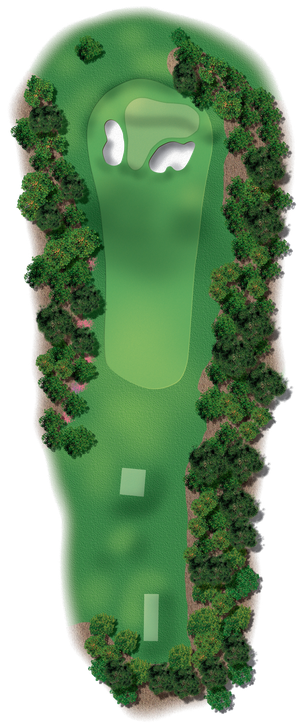
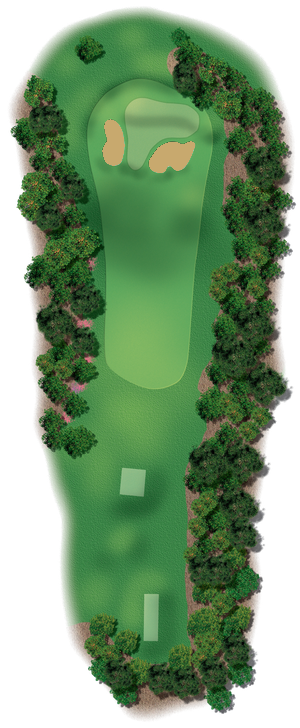
Augusta: flat sand bunkers, fill transparent dark patches
Bunker centres had transparent pixels and grey shading, which showed as dark
patches on the course. Recolour every bunker solid #c8a96e at full opacity
and bump the image cache-bust to v21.

Changed region(s): [[0.48, 0.1813, 0.66, 0.2418], [0.33, 0.1511, 0.42, 0.2418]]

diff --git a/components/FootballGolf.tsx b/components/FootballGolf.tsx
@@ -3228,7 +3228,7 @@ export default function FootballGolf(){
                   strokes={strokes}
                   useMeet={courseMode!=='real' || dailyMode}
                   imageUrl={courseMode==='real' && !dailyMode ? (
-                    selectedCourse==='augusta' ? `/holes/augusta/hole_${String(currentHole.number).padStart(2,'0')}.png?v=20` :
+                    selectedCourse==='augusta' ? `/holes/augusta/hole_${String(currentHole.number).padStart(2,'0')}.png?v=21` :
                     selectedCourse==='wii-golf' ? `/holes/wii-golf/wii-golf-${currentHole.number}.png` :
                     `/holes/hole_${String(currentHole.number).padStart(2,'0')}.png`
                   ) : undefined}
@@ -3464,7 +3464,7 @@ export default function FootballGolf(){
                     isAnimating={isAnimating}
                     strokes={strokes}
                     maxRangePos={!pastPin && club==='driver' && remaining > clubMax && !(selectedCourse==='wii-golf' && currentHole && WII_GOLF_BRANCHES[currentHole.number]) ? ballPos + clubMax : undefined}
-                    imageUrl={isReal ? (selectedCourse==='augusta' ? `/holes/augusta/hole_${String(currentHole.number).padStart(2,'0')}.png?v=20` : selectedCourse==='wii-golf' ? `/holes/wii-golf/wii-golf-${currentHole.number}.png` : `/holes/hole_${String(currentHole.number).padStart(2,'0')}.png`) : undefined}
+                    imageUrl={isReal ? (selectedCourse==='augusta' ? `/holes/augusta/hole_${String(currentHole.number).padStart(2,'0')}.png?v=21` : selectedCourse==='wii-golf' ? `/holes/wii-golf/wii-golf-${currentHole.number}.png` : `/holes/hole_${String(currentHole.number).padStart(2,'0')}.png`) : undefined}
                     imageRotation={isReal ? (PEBBLE_PHOTO_ROTATIONS[currentHole.number] ?? 0) : undefined}
                     realYScale={cvYScale}
                     realTeePos={isReal ? fracToSVG((selectedCourse==='augusta'?AUGUSTA_POSITIONS:selectedCourse==='wii-golf'?wiiActiveLookup:HOLE_POSITIONS)[currentHole.number].teeFrac, cvYScale!) : undefined}

diff --git a/scripts/recolor-augusta-bunkers.py b/scripts/recolor-augusta-bunkers.py
@@ -1,119 +1,57 @@
 """
-Augusta bunker flat-fill — compact-component filter + strict alpha.
+Augusta bunkers -> flat sand (#c8a96e).
 
-Problems with previous versions:
-  - Semi-transparent edge pixels (alpha 10-200) formed large "components" at the
-    boundary of the hole shape → fixed by requiring alpha > 200 for seeds.
-  - Elongated right-side boundary strips (e.g. hole_01 comp=166, compactness=0.06)
-    were ≥500px but are not bunkers → filtered by requiring compactness ≥ 0.2.
-  - Dark green pixels inside the dilation zone were colored because is_fairway
-    only excluded bright green (g>130) → fixed by excluding any green-dominant
-    pixel (g > r+10 AND g > b+10) from the final fill.
+The hole art has grey/white bunkers with dark shading, and some bunker centres are
+transparent (the page background shows through as dark patches). This:
+  1. finds the course shape (filling transparent gaps) and stays 14px inside its edge,
+  2. seeds on the light-grey bunker lip, grows through connected grey shading + gaps,
+  3. paints the result flat sand at full opacity.
 
-Algorithm:
-  1. v12 seed: lum>80, sat<40, not green-dominant, not blue, alpha>200.
-  2. 20px dilation + shadow to form v12_mask.
-  3. Label components; keep those ≥500px AND compactness ≥ 0.2 (area/bbox_area).
-  4. Dilate kept components by BRIDGE_PX to bridge thin green separator lines.
-  5. Within dilated zone, fill pixels that are not green-dominant and not blue.
-
-Sources: /tmp/augusta_orig (6148b9f)
-Output:  public/holes/augusta/
+Usage: python3 scripts/recolor-augusta-bunkers.py [src_dir] [dst_dir]
+       (defaults to public/holes/augusta in place; safe to re-run)
 """
-
 import os
+import sys
+
 import numpy as np
-from PIL import Image, ImageFilter
-from scipy.ndimage import label
+from PIL import Image
+from scipy.ndimage import binary_dilation, binary_erosion, binary_fill_holes, label
 
-ORIG_DIR  = '/tmp/augusta_orig'
-OUT_DIR   = os.path.join(os.path.dirname(__file__), '..', 'public', 'holes', 'augusta')
+SAND = np.array([200, 169, 110])  # #c8a96e
+DEFAULT = os.path.join(os.path.dirname(__file__), '..', 'public', 'holes', 'augusta')
+src = sys.argv[1] if len(sys.argv) > 1 else DEFAULT
+dst = sys.argv[2] if len(sys.argv) > 2 else src
 
-FLAT_R, FLAT_G, FLAT_B = 200, 169, 110   # #c8a96e
-MIN_COMPONENT   = 500    # px — minimum blob size
-MIN_COMPACTNESS = 0.25   # area / bounding_box_area — filters elongated boundary strips
-BRIDGE_PX       = 8      # px dilation to bridge thin green separator lines
+for f in sorted(os.listdir(src)):
+    if not f.endswith('.png'):
+        continue
+    a = np.array(Image.open(os.path.join(src, f)).convert('RGBA')).astype(int)
+    r, g, b, al = a[..., 0], a[..., 1], a[..., 2], a[..., 3]
+    mx = a[..., :3].max(-1)
+    mn = a[..., :3].min(-1)
+    lum = (mx + mn) / 2
+    glead = g - np.maximum(r, b)
 
+    course = binary_fill_holes(al > 200)
+    interior = binary_erosion(course, iterations=14)            # stay off the feathered course edge
+    holes = course & (al <= 200)                                 # transparent gaps inside the course
+    grey = (mx - mn < 45) & (glead < 15) & (r - b < 25)          # grey/blue-grey, not green or brown straw
+    greyish = interior & (grey | holes)
+    lip = greyish & (lum > 120) & (mx - mn < 20)                 # light-grey bunker lip
 
-def recolor_hole(src_path, out_path):
-    img  = Image.open(src_path).convert('RGBA')
-    data = np.array(img, dtype=np.float32)
-    r, g, b, a = data[:,:,0], data[:,:,1], data[:,:,2], data[:,:,3]
+    lab, n = label(lip)
+    sizes = np.bincount(lab.ravel())
+    m = np.isin(lab, [i for i in range(1, n + 1) if sizes[i] >= 25])
+    for _ in range(25):                                          # grow through connected shading
+        nm = binary_dilation(m) & greyish
+        if (nm == m).all():
+            break
+        m = nm
+    m = binary_fill_holes(m) & interior
+    m |= binary_dilation(m, iterations=2) & interior & ((glead < 30) | holes)  # antialiased rim
 
-    maxc = np.maximum(np.maximum(r, g), b)
-    minc = np.minimum(np.minimum(r, g), b)
-    lv   = (maxc + minc) / 2.0 / 255.0
-    lum  = lv * 255.0
-    diff = maxc - minc
-    s    = np.where(diff == 0, 0.0,
-               np.where(lv > 0.5,
-                   diff / (510.0 - maxc - minc),
-                   diff / (maxc + minc)))
-    sat = s * 100.0
-
-    # Keep a>10 for connectivity; edge artifacts are filtered by compactness below
-    inside = a > 10
-    # Green-dominant: any pixel where G clearly leads both R and B
-    is_green = (g > r + 10) & (g > b + 10)
-    is_blue  = (b > r + 20) & (b > g + 10)
-
-    # ── v12 mask ───────────────────────────────────────────────────────────────
-    seed = (
-        (lum > 80) & (sat < 40) &
-        (g < r + 25) & (b > g - 35) &
-        inside & ~is_green & ~is_blue
-    )
-    seed_img = Image.fromarray((seed * 255).astype(np.uint8))
-    zone     = np.array(seed_img.filter(ImageFilter.MaxFilter(41))) > 0
-    shadow   = zone & inside & (lum >= 5) & (lum <= 70) & (sat < 40) & ~is_green & ~is_blue
-    v12_mask = (seed | shadow).astype(bool)
-
-    # ── Keep large, compact components (real bunker bodies) ───────────────────
-    labeled, _ = label(v12_mask)
-    sizes = np.bincount(labeled.ravel())
-
-    good_ids = []
-    for cid in np.where(sizes >= MIN_COMPONENT)[0]:
-        if cid == 0:
-            continue
-        ys, xs = np.where(labeled == cid)
-        bbox_area = max(1, int(ys.max() - ys.min() + 1) * int(xs.max() - xs.min() + 1))
-        compactness = sizes[cid] / bbox_area
-        if compactness >= MIN_COMPACTNESS:
-            good_ids.append(cid)
-
-    if not good_ids:
-        # Nothing found — write unchanged image
-        Image.fromarray(np.array(img, dtype=np.uint8), mode='RGBA').save(out_path)
-        print(f'  no bunker components found — skipped')
-        return
-
-    large_mask = np.isin(labeled, good_ids)
-
-    # ── Dilate to bridge thin green separator lines ────────────────────────────
-    large_img = Image.fromarray((large_mask * 255).astype(np.uint8))
-    zone_big  = np.array(large_img.filter(ImageFilter.MaxFilter(BRIDGE_PX * 2 + 1))) > 0
-
-    # ── Fill: non-green, non-blue pixels with reasonable opacity inside zone ──
-    full_mask = zone_big & (a > 50) & ~is_green & ~is_blue
-
-    out = np.array(img, dtype=np.uint8)
-    out[:,:,0] = np.where(full_mask, FLAT_R, out[:,:,0])
-    out[:,:,1] = np.where(full_mask, FLAT_G, out[:,:,1])
-    out[:,:,2] = np.where(full_mask, FLAT_B, out[:,:,2])
-
-    Image.fromarray(out, mode='RGBA').save(out_path)
-    print(f'  kept={len(good_ids)} comps  filled={int(full_mask.sum()):,}')
-
-
-def main():
-    holes = sorted(f for f in os.listdir(ORIG_DIR) if f.endswith('.png'))
-    print(f'Processing {len(holes)} Augusta holes …')
-    for fname in holes:
-        print(f'  {fname}:', end='  ')
-        recolor_hole(os.path.join(ORIG_DIR, fname), os.path.join(OUT_DIR, fname))
-    print('Done.')
-
-
-if __name__ == '__main__':
-    main()
+    out = a.copy()
+    out[m, :3] = SAND
+    out[m, 3] = 255
+    Image.fromarray(out.astype(np.uint8)).save(os.path.join(dst, f), optimize=True)
+    print(f, 'bunkers', int((sizes[1:] >= 25).sum()), 'px', int(m.sum()))
